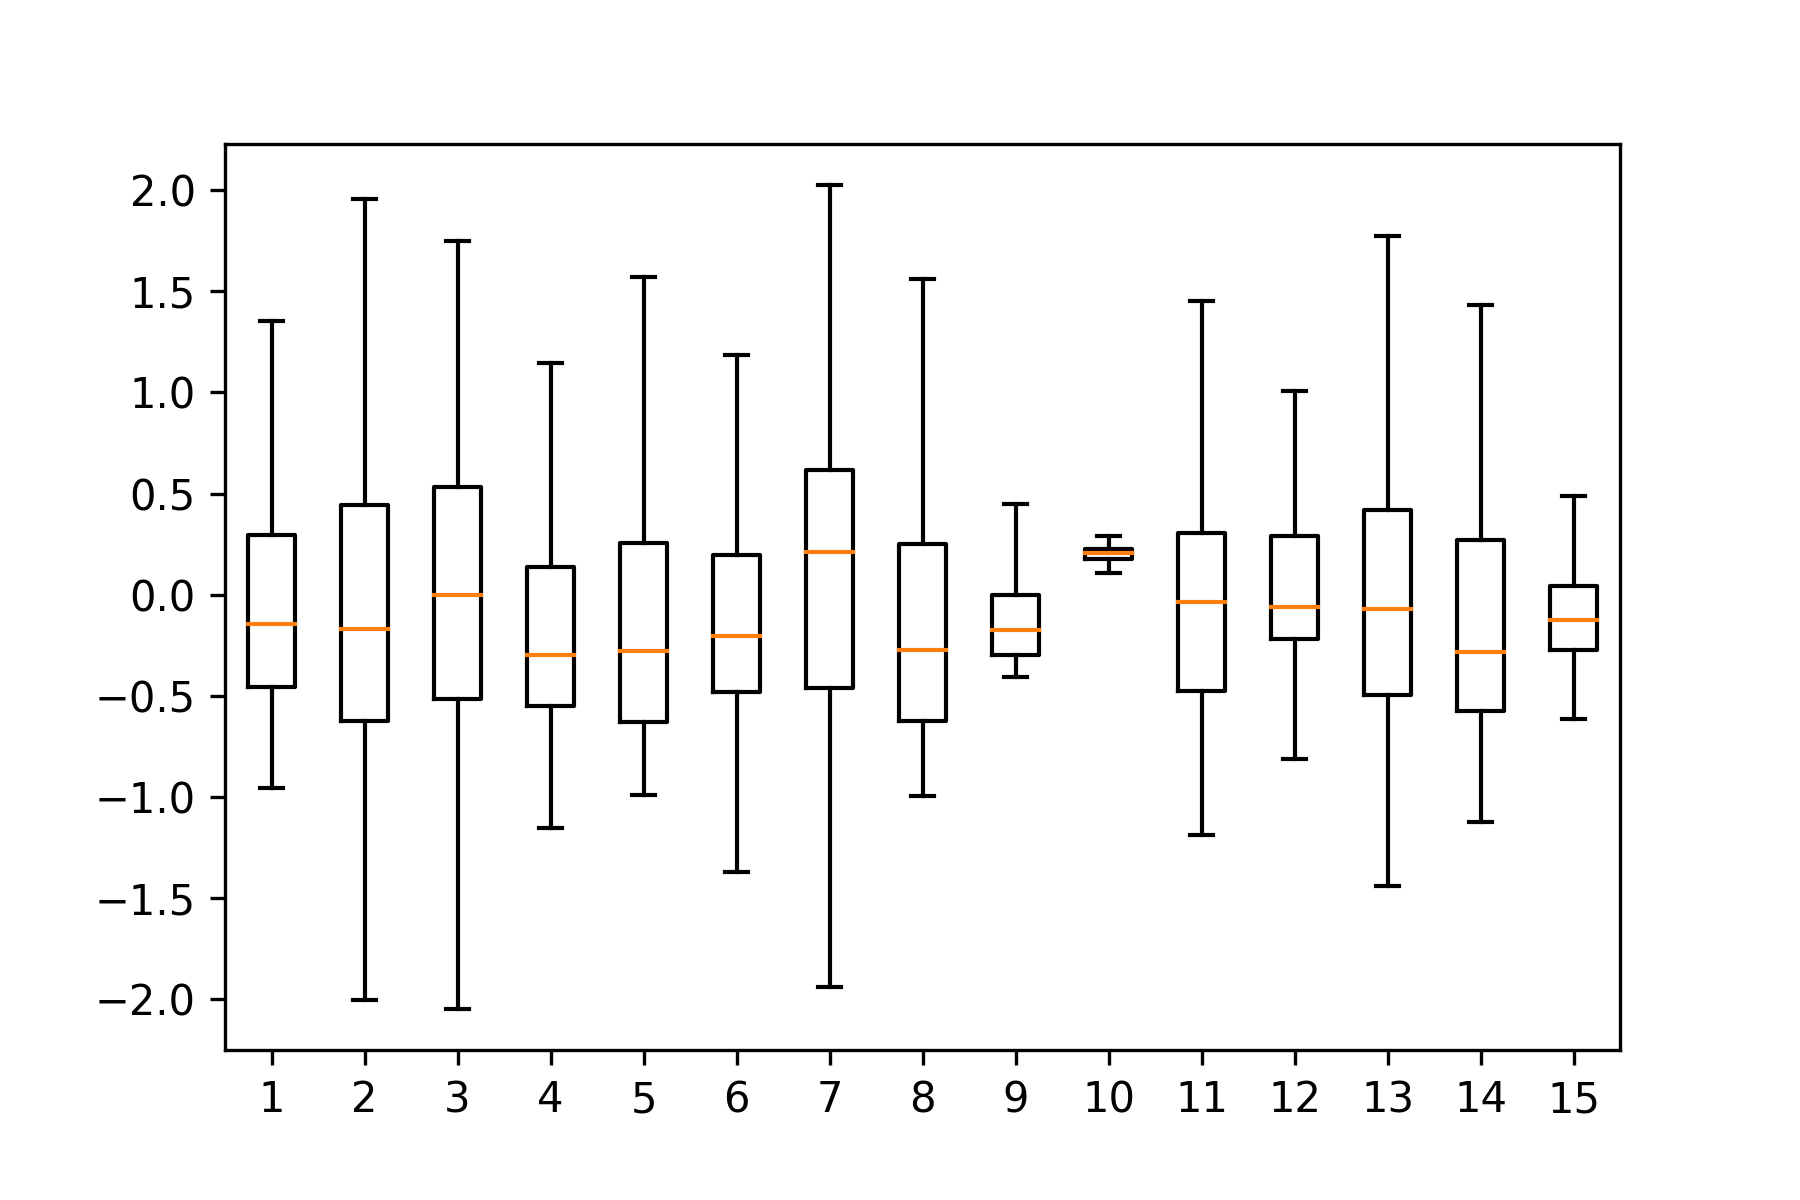
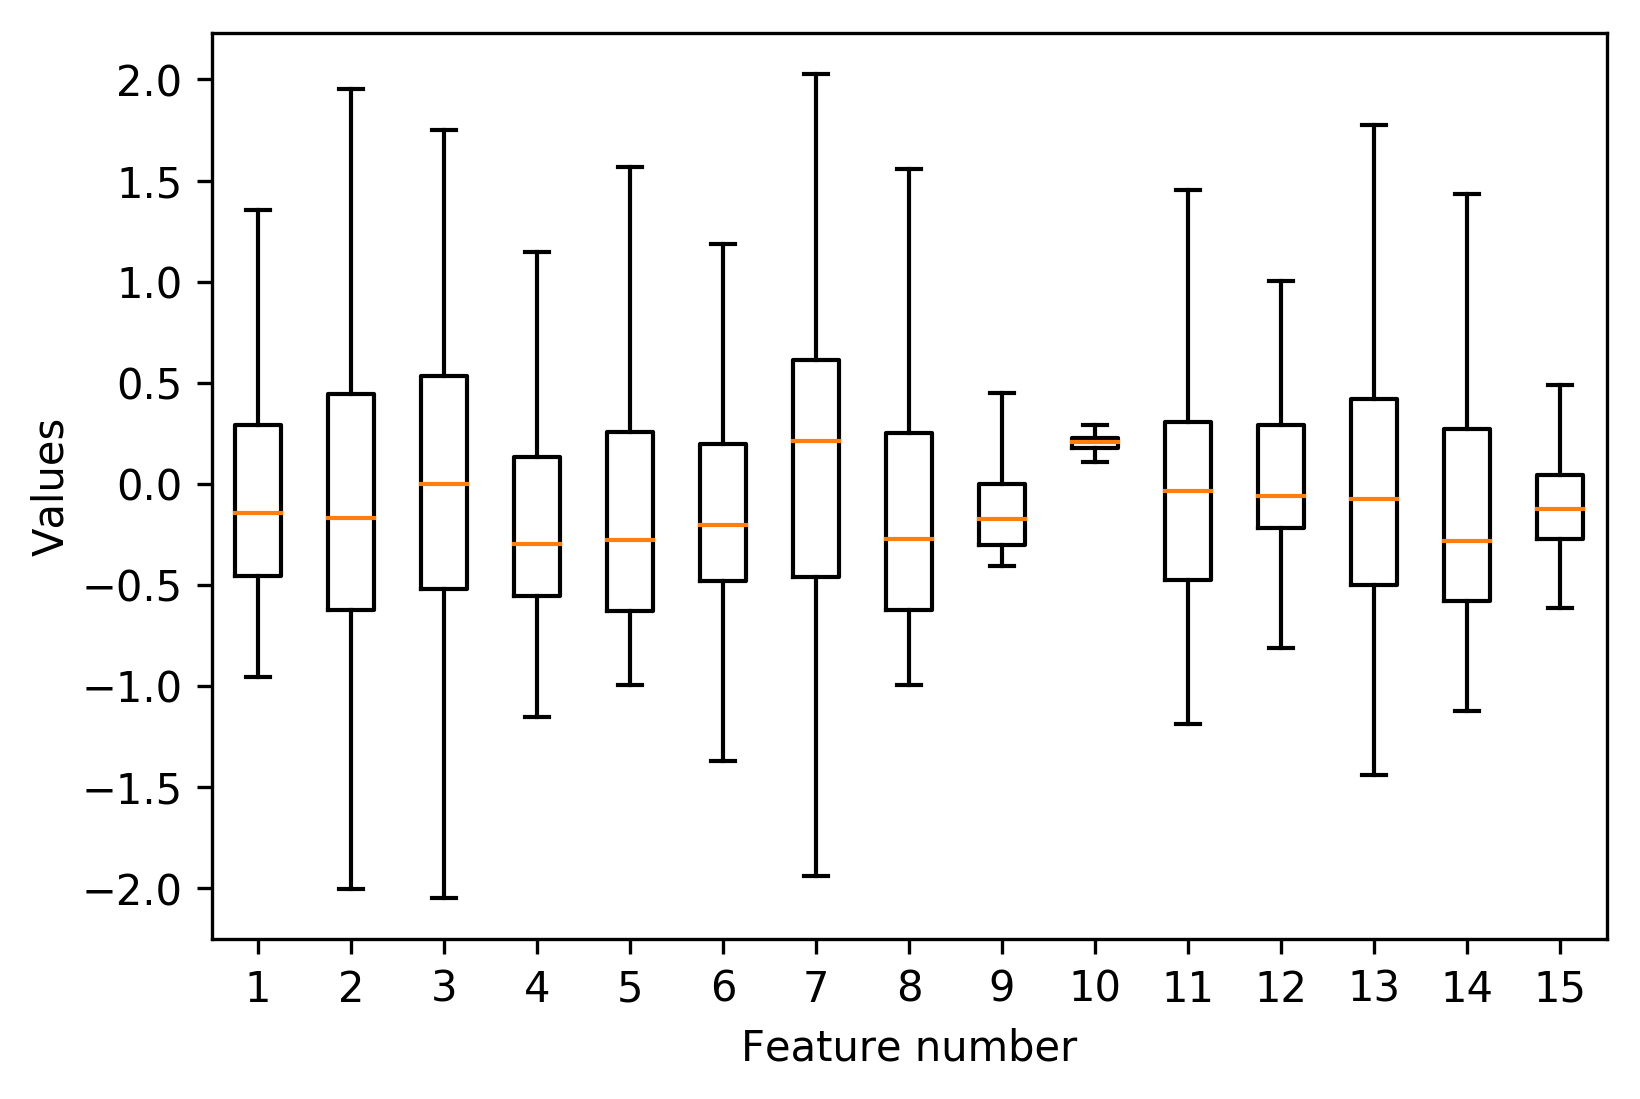
Added features normalization plots

diff --git a/LATEX/deliverable_1/003_design.tex b/LATEX/deliverable_1/003_design.tex
@@ -126,7 +126,32 @@ For this normalization to be valid the mean and the standard deviation is obtain
 the train samples. These are different for each feature because not all the features need to 
 be normalized in the same way. Afterwards, the normalization is applied to both the train 
 and test samples. The mean for the test samples is never obtained, because, otherwise, the
-model could have \gls{leakage}. 
+model could have \gls{leakage}. An example of features normalization can be seen in
+\autoref{fig:feature-normalization}
+
+\begin{figure}
+  \centering
+
+  \begin{subfigure}[t]{.47\textwidth}
+    \includegraphics[width=\textwidth]{images/features_original}
+
+    \caption{Features before normalization box plot \label{fig:feature-normalization-before}}
+  \end{subfigure}
+  \hfill
+  \begin{subfigure}[t]{.47\textwidth}
+    \includegraphics[width=\textwidth]{images/features_normalized}
+
+    \caption{Features after normalization box plot}
+  \end{subfigure}
+
+  \caption{Features normalization example \label{fig:feature-normalization}}
+
+  \it
+  In this example only the first 15 of 725 features are shown for readability. 
+  \autoref{fig:feature-normalization-before} shows the features before normalizing them. Many
+  of the features are too small compared with the ones shown so only a small line is drawn.
+  
+\end{figure}
 
 
 \sssecc{Pair generation}
